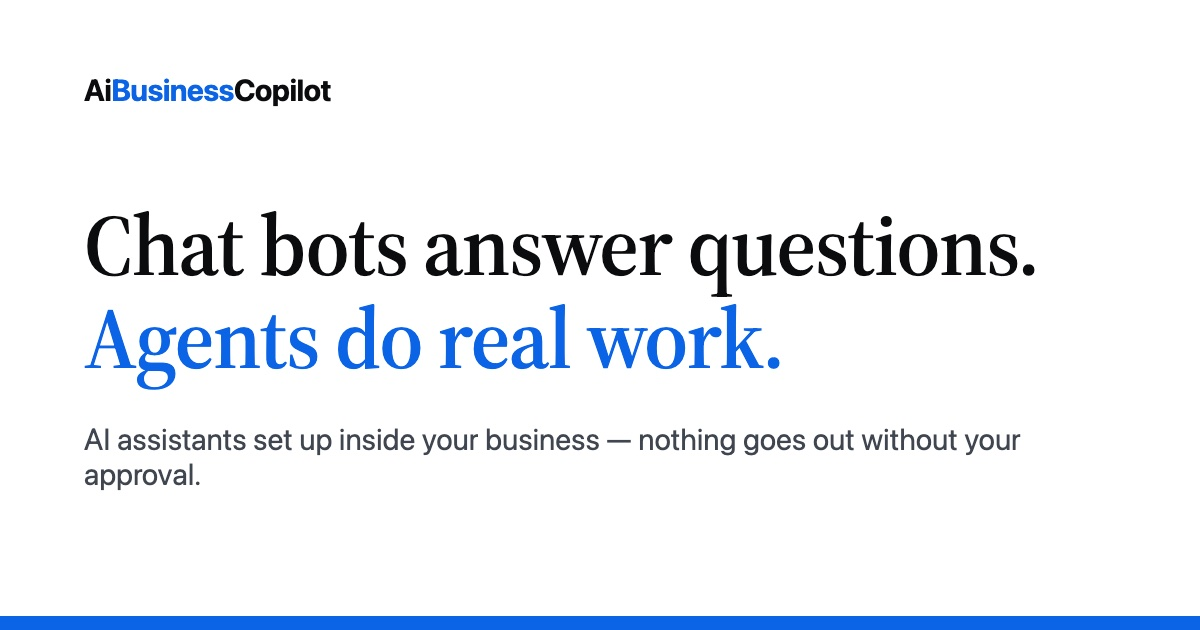
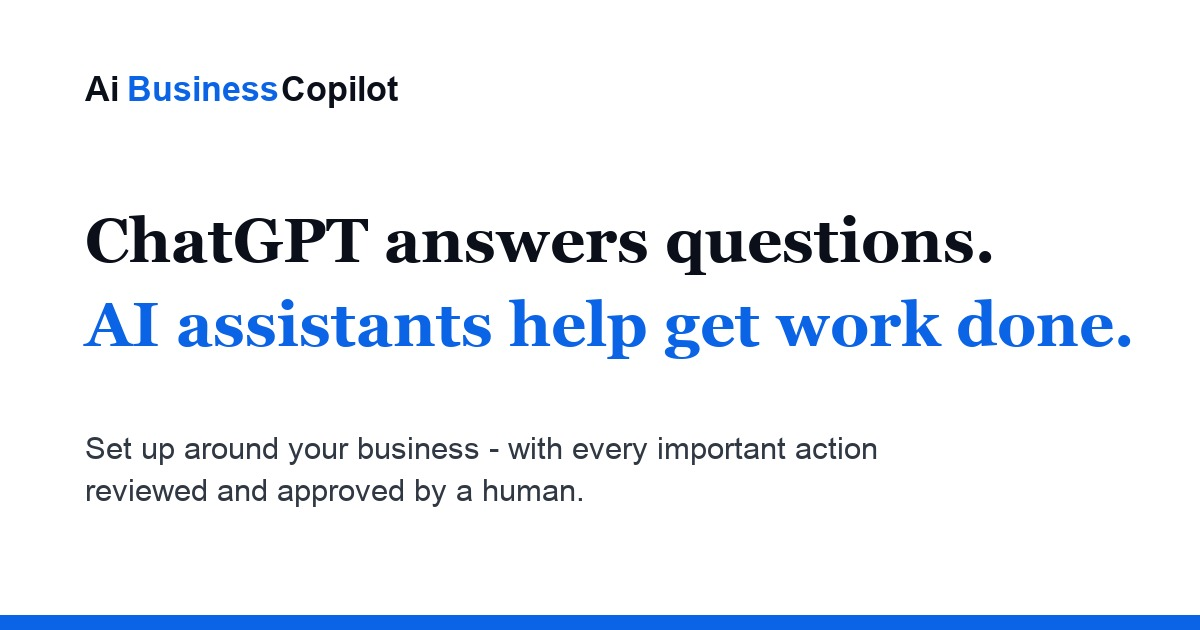
Clarify AI assistant positioning

diff --git a/index.html b/index.html
@@ -3,19 +3,19 @@
 <head>
     <meta charset="UTF-8">
     <meta name="viewport" content="width=device-width, initial-scale=1.0">
-    <title>AiBusinessCopilot — AI assistants that do real work</title>
-    <meta name="description" content="We set up Claude or Codex inside your business — an AI assistant that reads, researches, drafts, schedules, and follows up. Nothing goes out without your approval.">
-    <meta property="og:title" content="AiBusinessCopilot — AI assistants that do real work">
-    <meta property="og:description" content="Chat bots answer questions. Agents do real work. We install leading AI assistants around the tools you already use.">
+    <title>AiBusinessCopilot — AI assistants that help get work done</title>
+    <meta name="description" content="We set up ChatGPT, Claude, Codex, or the AI tool you already use as a practical assistant for your business. Nothing goes out without your approval.">
+    <meta property="og:title" content="AiBusinessCopilot — AI assistants that help get work done">
+    <meta property="og:description" content="ChatGPT answers questions. We set up an AI assistant that helps your business get work done.">
     <meta property="og:type" content="website">
     <meta property="og:url" content="https://aibusinesscopilot.io/">
     <meta property="og:image" content="https://aibusinesscopilot.io/social-card.jpg">
     <meta property="og:image:width" content="1200">
     <meta property="og:image:height" content="630">
-    <meta property="og:image:alt" content="Chat bots answer questions. Agents do real work. — AiBusinessCopilot">
+    <meta property="og:image:alt" content="ChatGPT answers questions. AI assistants help get work done. — AiBusinessCopilot">
     <meta name="twitter:card" content="summary_large_image">
-    <meta name="twitter:title" content="AiBusinessCopilot — AI assistants that do real work">
-    <meta name="twitter:description" content="Chat bots answer questions. Agents do real work. We install leading AI assistants around the tools you already use.">
+    <meta name="twitter:title" content="AiBusinessCopilot — AI assistants that help get work done">
+    <meta name="twitter:description" content="ChatGPT answers questions. We set up an AI assistant that helps your business get work done.">
     <meta name="twitter:image" content="https://aibusinesscopilot.io/social-card.jpg">
     <script type="application/ld+json">
     {
@@ -40,7 +40,7 @@
       "url": "https://aibusinesscopilot.io/",
       "email": "ty@aibusinesscopilot.io",
       "image": "https://aibusinesscopilot.io/social-card.jpg",
-      "description": "We set up AI assistants like Claude and Codex inside small businesses — connected to the tools you already use, with every action approved by you before it goes out.",
+      "description": "We set up ChatGPT, Claude, Codex, or the AI tool you already use as a practical assistant for your business — connected to the tools you already use, with every action approved by you before it goes out.",
       "areaServed": [
         { "@type": "City", "name": "Phoenix", "containedInPlace": { "@type": "State", "name": "Arizona" } },
         "Remote"
@@ -506,9 +506,9 @@
     <!-- HERO -->
     <section class="hero">
         <div class="container">
-            <p class="eyebrow reveal">We set up Claude and Codex for real businesses</p>
-            <h1 class="reveal">Chat bots answer questions.<br>Agents do real work.</h1>
-            <p class="lede reveal">We install a leading AI assistant inside your business. It takes over the reading, researching, drafting, scheduling, and following up that eats your week — then brings everything back to you for the final say.</p>
+            <p class="eyebrow reveal">We turn AI tools into practical business assistants</p>
+            <h1 class="reveal">ChatGPT answers questions.<br>An AI assistant helps get work done.</h1>
+            <p class="lede reveal">We set up ChatGPT, Claude, Codex, or the AI tool you already use as a practical assistant for your business. It helps with the reading, researching, drafting, scheduling, and follow-up that eat your week — then brings everything back to you for the final say.</p>
             <div class="hero-ctas reveal">
                 <a href="https://docs.google.com/forms/d/e/1FAIpQLSdFFl5u6WnTNpVYOfVQvCAf3JeHsFbnt8GaftJ_0jQG6UOvNA/viewform" class="btn">See what it would do for you</a>
                 <a href="#how-it-works" class="btn-ghost">How it works &rarr;</a>
@@ -676,7 +676,7 @@
                     </div>
                     <div class="card step reveal">
                         <div class="step-number">3</div>
-                        <h3>Build &amp; install</h3>
+                        <h3>Build &amp; set up</h3>
                         <p>We configure your assistant, connect feasible tools, add useful schedules and briefings, and hand off a setup your team can actually use.</p>
                     </div>
                     <div class="card step reveal">
@@ -919,7 +919,7 @@
                 <a href="privacy.html">Privacy Policy</a> &middot;
                 <a href="ai-disclosure.html">AI Risk Disclosure</a>
             </p>
-            <p class="agent-badge">This website is built and maintained by an AI assistant — every change reviewed and approved by a human before it ships. It's the same kind of setup we install for you.</p>
+            <p class="agent-badge">This website is built and maintained by an AI assistant — every change reviewed and approved by a human before it ships. It's the same kind of setup we create for you.</p>
         </div>
     </footer>
 

diff --git a/services.html b/services.html
@@ -12,7 +12,7 @@
     <meta property="og:image" content="https://aibusinesscopilot.io/social-card.jpg">
     <meta property="og:image:width" content="1200">
     <meta property="og:image:height" content="630">
-    <meta property="og:image:alt" content="Chat bots answer questions. Agents do real work. — AiBusinessCopilot">
+    <meta property="og:image:alt" content="ChatGPT answers questions. AI assistants help get work done. — AiBusinessCopilot">
     <meta name="twitter:card" content="summary_large_image">
     <meta name="twitter:title" content="AiBusinessCopilot — Services &amp; Pricing">
     <meta name="twitter:description" content="Practical AI setup for businesses and operators. We connect Claude, Codex, or your preferred AI assistant to the tools you already use — starting with the one thing costing you the most time.">
@@ -79,7 +79,7 @@
     <main>
         <div class="eyebrow">Services &amp; pricing</div>
         <h1>AI that actually <span>works</span> for your business</h1>
-        <p class="lead">We connect the tools you already use to Claude, Codex, or your preferred AI assistant — then set it up to handle real work, with clear rules, useful context, and your approval where it matters.</p>
+        <p class="lead">We set up ChatGPT, Claude, Codex, or your preferred AI tool as a practical assistant for your business — connected to the tools you already use, with clear rules, useful context, and your approval where it matters.</p>
 
         <h2>What we do</h2>
 
@@ -136,7 +136,7 @@
             </div>
             <div class="step">
                 <div class="step-num">3</div>
-                <h4>Build &amp; install</h4>
+                <h4>Build &amp; set up</h4>
                 <p>We set up the assistant, the context, the connections, and a handoff guide</p>
             </div>
             <div class="step">
@@ -216,7 +216,7 @@
                 <a href="ai-assistants.html">From Chatbots to AI Assistants</a>
                 <a href="mailto:ty@aibusinesscopilot.io">ty@aibusinesscopilot.io</a>
             </div>
-            <p class="agent-badge">This website is built and maintained by an AI assistant — every change reviewed and approved by a human before it ships. It’s the same kind of setup we install for you.</p>
+            <p class="agent-badge">This website is built and maintained by an AI assistant — every change reviewed and approved by a human before it ships. It’s the same kind of setup we create for you.</p>
         </div>
     </footer>
 </body>

diff --git a/ai-assistants.html b/ai-assistants.html
@@ -12,7 +12,7 @@
     <meta property="og:image" content="https://aibusinesscopilot.io/social-card.jpg">
     <meta property="og:image:width" content="1200">
     <meta property="og:image:height" content="630">
-    <meta property="og:image:alt" content="Chat bots answer questions. Agents do real work. — AiBusinessCopilot">
+    <meta property="og:image:alt" content="ChatGPT answers questions. AI assistants help get work done. — AiBusinessCopilot">
     <meta name="twitter:card" content="summary_large_image">
     <meta name="twitter:title" content="From Chatbots to AI Assistants | AiBusinessCopilot">
     <meta name="twitter:description" content="A plain-English overview of how AI has moved from simple chatbots to practical assistants that can use tools, inspect work, prepare changes, and help run real work.">
@@ -180,7 +180,7 @@
                 <a href="privacy.html">Privacy Policy</a>
                 <a href="ai-disclosure.html">AI Risk Disclosure</a>
             </div>
-            <p class="agent-badge">This website is built and maintained by an AI assistant — every change reviewed and approved by a human before it ships. It’s the same kind of setup we install for you.</p>
+            <p class="agent-badge">This website is built and maintained by an AI assistant — every change reviewed and approved by a human before it ships. It’s the same kind of setup we create for you.</p>
         </div>
     </footer>
 </body>

diff --git a/terms.html b/terms.html
@@ -12,7 +12,7 @@
     <meta property="og:image" content="https://aibusinesscopilot.io/social-card.jpg">
     <meta property="og:image:width" content="1200">
     <meta property="og:image:height" content="630">
-    <meta property="og:image:alt" content="Chat bots answer questions. Agents do real work. — AiBusinessCopilot">
+    <meta property="og:image:alt" content="ChatGPT answers questions. AI assistants help get work done. — AiBusinessCopilot">
     <meta name="twitter:card" content="summary_large_image">
     <meta name="twitter:title" content="Terms of Service | AiBusinessCopilot">
     <meta name="twitter:description" content="Terms of Service for AiBusinessCopilot AI setup, workflow automation, and consulting services.">
@@ -117,7 +117,7 @@
                 <a href="privacy.html">Privacy Policy</a>
                 <a href="ai-disclosure.html">AI Risk Disclosure</a>
             </div>
-            <p class="agent-badge">This website is built and maintained by an AI assistant — every change reviewed and approved by a human before it ships. It’s the same kind of setup we install for you.</p>
+            <p class="agent-badge">This website is built and maintained by an AI assistant — every change reviewed and approved by a human before it ships. It’s the same kind of setup we create for you.</p>
         </div>
     </footer>
 </body>

diff --git a/privacy.html b/privacy.html
@@ -12,7 +12,7 @@
     <meta property="og:image" content="https://aibusinesscopilot.io/social-card.jpg">
     <meta property="og:image:width" content="1200">
     <meta property="og:image:height" content="630">
-    <meta property="og:image:alt" content="Chat bots answer questions. Agents do real work. — AiBusinessCopilot">
+    <meta property="og:image:alt" content="ChatGPT answers questions. AI assistants help get work done. — AiBusinessCopilot">
     <meta name="twitter:card" content="summary_large_image">
     <meta name="twitter:title" content="Privacy Policy | AiBusinessCopilot">
     <meta name="twitter:description" content="Privacy Policy for AiBusinessCopilot, including third-party AI provider data handling.">
@@ -115,7 +115,7 @@
                 <a href="privacy.html">Privacy Policy</a>
                 <a href="ai-disclosure.html">AI Risk Disclosure</a>
             </div>
-            <p class="agent-badge">This website is built and maintained by an AI assistant — every change reviewed and approved by a human before it ships. It’s the same kind of setup we install for you.</p>
+            <p class="agent-badge">This website is built and maintained by an AI assistant — every change reviewed and approved by a human before it ships. It’s the same kind of setup we create for you.</p>
         </div>
     </footer>
 </body>

diff --git a/ai-disclosure.html b/ai-disclosure.html
@@ -12,7 +12,7 @@
     <meta property="og:image" content="https://aibusinesscopilot.io/social-card.jpg">
     <meta property="og:image:width" content="1200">
     <meta property="og:image:height" content="630">
-    <meta property="og:image:alt" content="Chat bots answer questions. Agents do real work. — AiBusinessCopilot">
+    <meta property="og:image:alt" content="ChatGPT answers questions. AI assistants help get work done. — AiBusinessCopilot">
     <meta name="twitter:card" content="summary_large_image">
     <meta name="twitter:title" content="AI Risk Disclosure | AiBusinessCopilot">
     <meta name="twitter:description" content="Plain-language AI risk disclosure for AiBusinessCopilot clients and prospects.">
@@ -110,7 +110,7 @@
                 <a href="privacy.html">Privacy Policy</a>
                 <a href="ai-disclosure.html">AI Risk Disclosure</a>
             </div>
-            <p class="agent-badge">This website is built and maintained by an AI assistant — every change reviewed and approved by a human before it ships. It’s the same kind of setup we install for you.</p>
+            <p class="agent-badge">This website is built and maintained by an AI assistant — every change reviewed and approved by a human before it ships. It’s the same kind of setup we create for you.</p>
         </div>
     </footer>
 </body>
